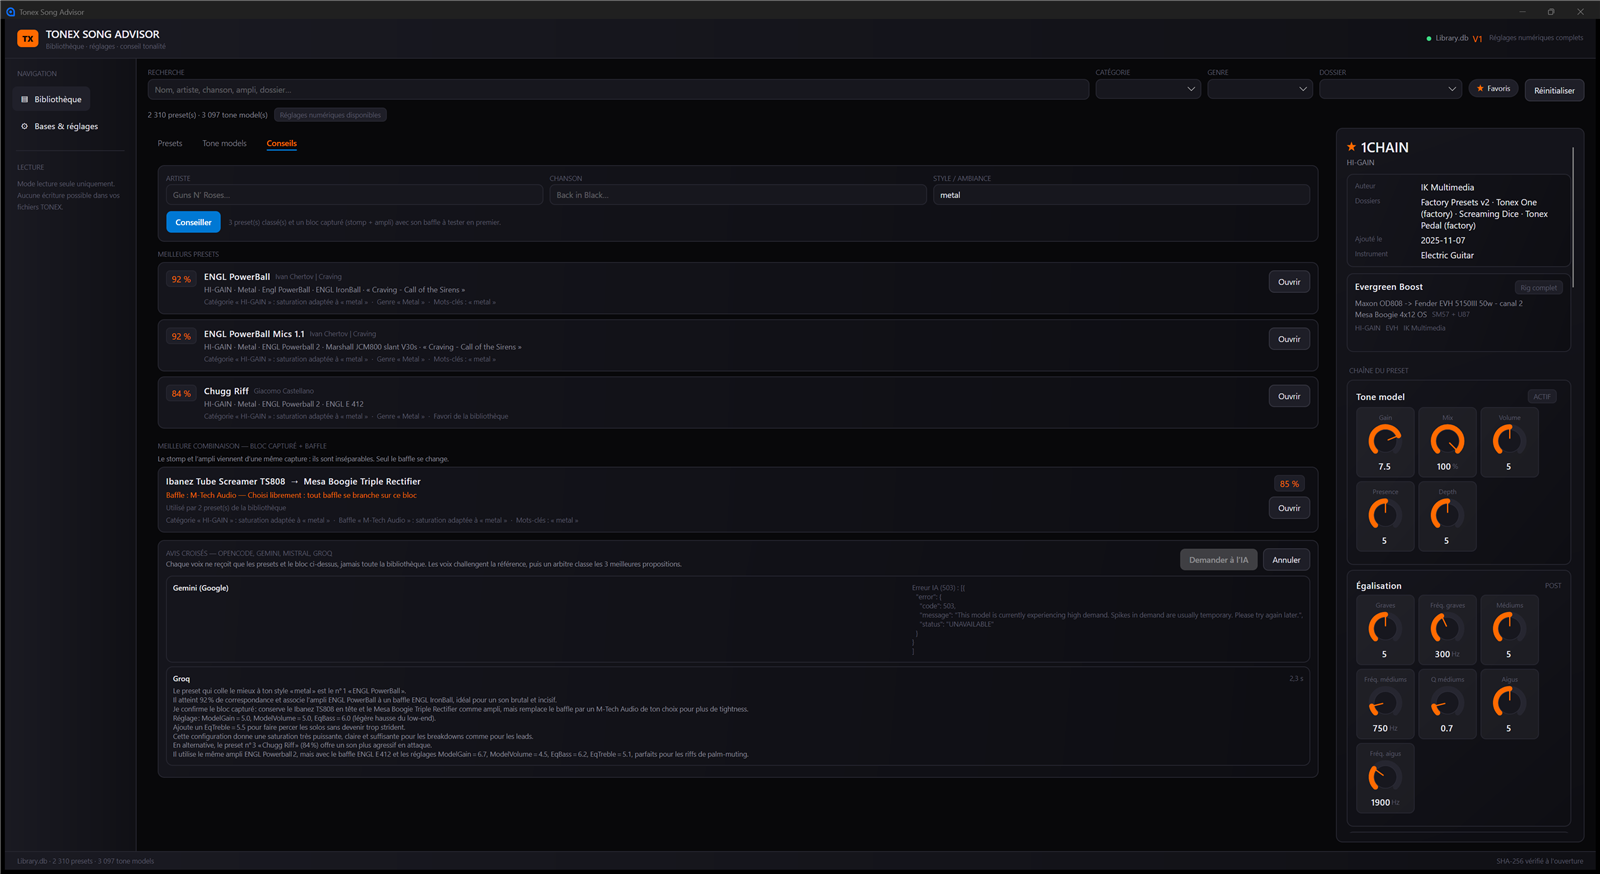
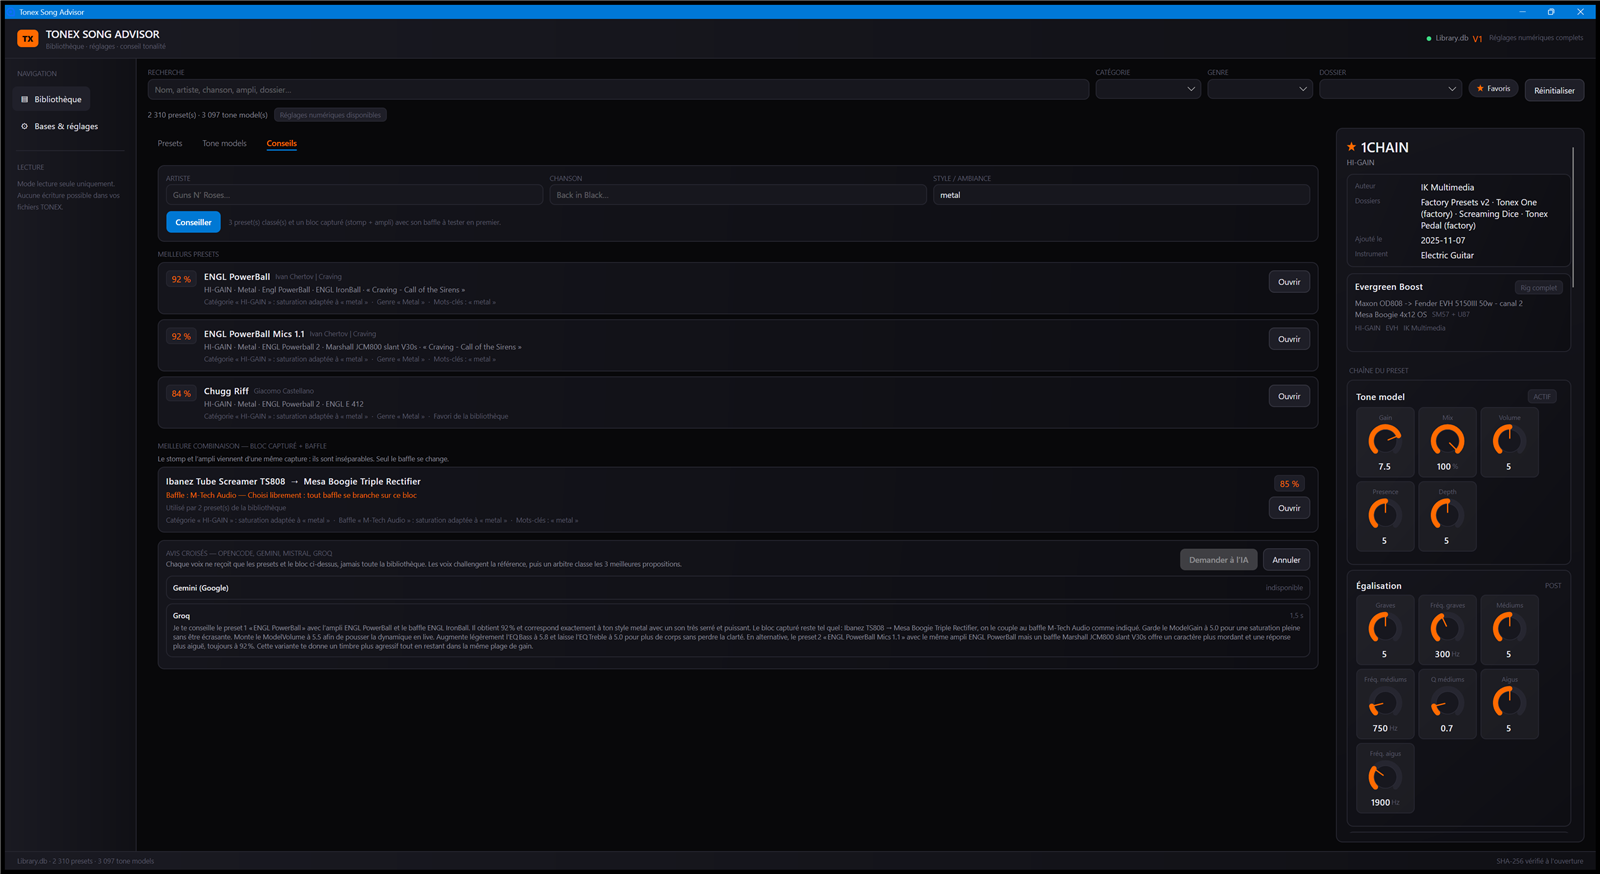
feat: panneau d'avis ordonne - reference, voix, puis convergence
Les avis s'affichent desormais dans un ordre stable : OpenCode (la reference) d'abord, puis les voix challengeres dans l'ordre du catalogue, et enfin l'avis convergé (arbitrage) sous un titre explicite - quoi qu'en dise l'ordre des reponses reseau. Une voix indisponible reste une simple mention 'indisponible'. 136 tests, ordre verifie par automatisation UI.

Changed region(s): [[0.0938, 0.7723, 0.4688, 0.8959], [0.0, 0.0, 1.0, 0.0309], [0.0938, 0.6796, 0.8125, 0.7414]]

diff --git a/src/TonexAdvisor.App/ViewModels/AdviceViewModel.cs b/src/TonexAdvisor.App/ViewModels/AdviceViewModel.cs
@@ -62,6 +62,14 @@ public partial class AdviceViewModel : ViewModelBase
     [NotifyPropertyChangedFor(nameof(HasAiText), nameof(HasAiThinking))]
     private string _aiText = "";
 
+    /// <summary>
+    /// Ce que contient <see cref="AiText"/> : l'avis d'une seule voix, ou l'avis convergé quand
+    /// plusieurs voix se sont exprimées.
+    /// </summary>
+    [ObservableProperty]
+    [NotifyPropertyChangedFor(nameof(HasAiTitle))]
+    private string _aiTitle = "";
+
     [ObservableProperty]
     [NotifyPropertyChangedFor(nameof(HasAiThinking))]
     private string _aiThinking = "";
@@ -99,6 +107,8 @@ public partial class AdviceViewModel : ViewModelBase
     /// <summary>The answer: the arbitration when several voices spoke, their opinion otherwise.</summary>
     public bool HasAiText => AiText.Length > 0;
 
+    public bool HasAiTitle => AiTitle.Length > 0;
+
     /// <summary>
     /// The chain of thought is shown while generating only: once the answer is there, it is
     /// noise for the user.
@@ -123,6 +133,7 @@ public partial class AdviceViewModel : ViewModelBase
         AiText = "";
         AiThinking = "";
         AiStatus = "";
+        AiTitle = "";
         Opinions.Clear();
         OnPropertyChanged(nameof(HasPresets));
         OnPropertyChanged(nameof(HasOpinions));
@@ -185,6 +196,7 @@ public partial class AdviceViewModel : ViewModelBase
         AiText = "";
         AiThinking = "";
         AiStatus = "";
+        AiTitle = "";
         Opinions.Clear();
         OnPropertyChanged(nameof(HasOpinions));
 
@@ -248,7 +260,8 @@ public partial class AdviceViewModel : ViewModelBase
             if (usable.Count == 1)
             {
                 AiText = usable[0].Text;
-                AiStatus = $"Conseil IA — {usable[0].Provider}";
+                AiTitle = $"AVIS — {usable[0].Provider}";
+                AiStatus = $"Conseil IA - {usable[0].Provider}";
                 return;
             }
 
@@ -277,6 +290,8 @@ public partial class AdviceViewModel : ViewModelBase
             if (AiText.Length == 0 && text.Length > 0)
                 AiText = text;
 
+            AiTitle = $"AVIS CONVERGÉ — {string.Join(" + ", usable.Select(opinion => opinion.Provider))}";
+
             AiStatus = AiText.Length > 0
                 ? $"Synthèse de {usable.Count} avis ({string.Join(", ", usable.Select(opinion => opinion.Provider))})"
                 : "L'arbitre n'a rien renvoyé : les avis restent affichés.";
@@ -298,10 +313,19 @@ public partial class AdviceViewModel : ViewModelBase
     [RelayCommand]
     private void CancelAi() => _aiCts?.Cancel();
 
-    /// <summary>Adds one voice to the panel, from the network thread.</summary>
+    /// <summary>
+    /// Ajoute une voix au panneau, depuis le thread réseau, à sa place : l'avis d'OpenCode
+    /// s'affiche en premier, puis les voix challengeres, puis seulement vient l'avis convergé.
+    /// </summary>
     private void AppendOpinion(AiOpinion opinion)
     {
-        Opinions.Add(new AiOpinionRowViewModel(opinion));
+        var rank = OpinionOrder.Rank(opinion.Provider);
+        var index = 0;
+
+        while (index < Opinions.Count && OpinionOrder.Rank(Opinions[index].Provider) <= rank)
+            index++;
+
+        Opinions.Insert(index, new AiOpinionRowViewModel(opinion));
         OnPropertyChanged(nameof(HasOpinions));
     }
 

diff --git a/tests/TonexAdvisor.Core.Tests/OpinionOrderTests.cs b/tests/TonexAdvisor.Core.Tests/OpinionOrderTests.cs
@@ -1,0 +1,28 @@
+using TonexAdvisor.App.Services;
+
+namespace TonexAdvisor.Core.Tests;
+
+/// <summary>
+/// Les avis arrivent dans l'ordre du réseau, qui change à chaque exécution : le panneau, lui, doit
+/// toujours se lire de la même façon — référence, voix, puis avis convergé.
+/// </summary>
+public class OpinionOrderTests
+{
+    [Fact]
+    public void TheReferenceComesFirst_ThenTheChallengersInCatalogueOrder()
+    {
+        Assert.True(OpinionOrder.Rank("OpenCode Go") < OpinionOrder.Rank("Gemini (Google)"));
+        Assert.True(OpinionOrder.Rank("Gemini (Google)") < OpinionOrder.Rank("Mistral"));
+        Assert.True(OpinionOrder.Rank("Mistral") < OpinionOrder.Rank("Groq"));
+        Assert.True(OpinionOrder.Rank("Groq") < OpinionOrder.Rank("Une voix inconnue"));
+    }
+
+    [Fact]
+    public void ThePanelReadsTheSameWayWhateverTheAnswerOrder()
+    {
+        var providers = new[] { "Groq", "Mistral", "OpenCode Go", "Gemini (Google)" };
+        var sorted = providers.OrderBy(OpinionOrder.Rank).ToArray();
+
+        Assert.Equal(new[] { "OpenCode Go", "Gemini (Google)", "Mistral", "Groq" }, sorted);
+    }
+}

diff --git a/src/TonexAdvisor.App/Services/OpinionOrder.cs b/src/TonexAdvisor.App/Services/OpinionOrder.cs
@@ -1,0 +1,30 @@
+using TonexAdvisor.App.Config;
+
+namespace TonexAdvisor.App.Services;
+
+/// <summary>
+/// Ordre d'affichage des voix : la référence d'OpenCode d'abord, puis les challengeres dans
+/// l'ordre du catalogue.
+/// </summary>
+/// <remarks>
+/// Les avis arrivent dans l'ordre des réponses du réseau, qui change à chaque exécution : le
+/// panneau, lui, doit être stable et toujours lire de la même façon — référence, voix, puis avis
+/// convergé.
+/// </remarks>
+public static class OpinionOrder
+{
+    /// <summary>Plus petit = plus haut dans le panneau.</summary>
+    public static int Rank(string provider)
+    {
+        if (provider.StartsWith("OpenCode", StringComparison.OrdinalIgnoreCase))
+            return 0;
+
+        for (var i = 0; i < AiProviders.Challengers.Count; i++)
+        {
+            if (string.Equals(AiProviders.Challengers[i].Label, provider, StringComparison.Ordinal))
+                return i + 1;
+        }
+
+        return 99;
+    }
+}
